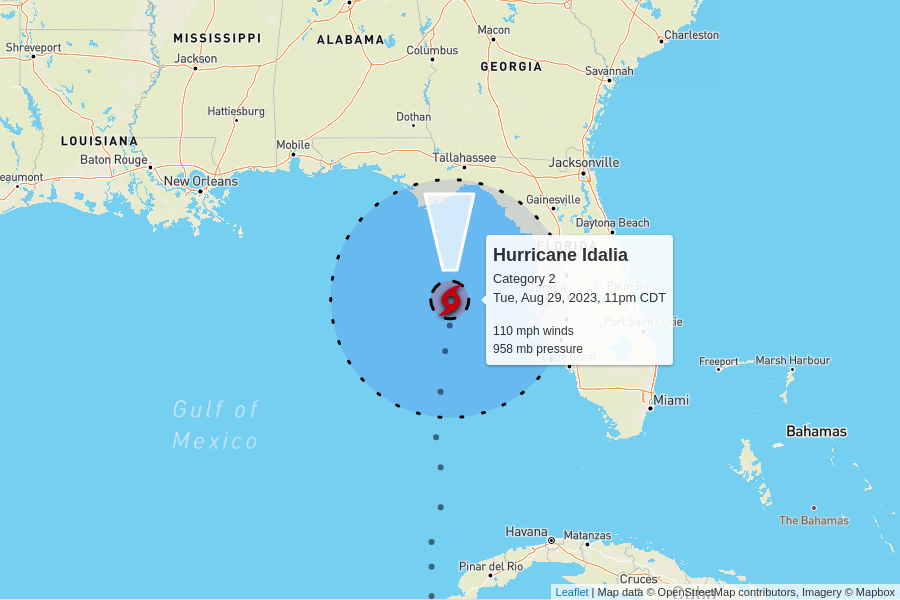
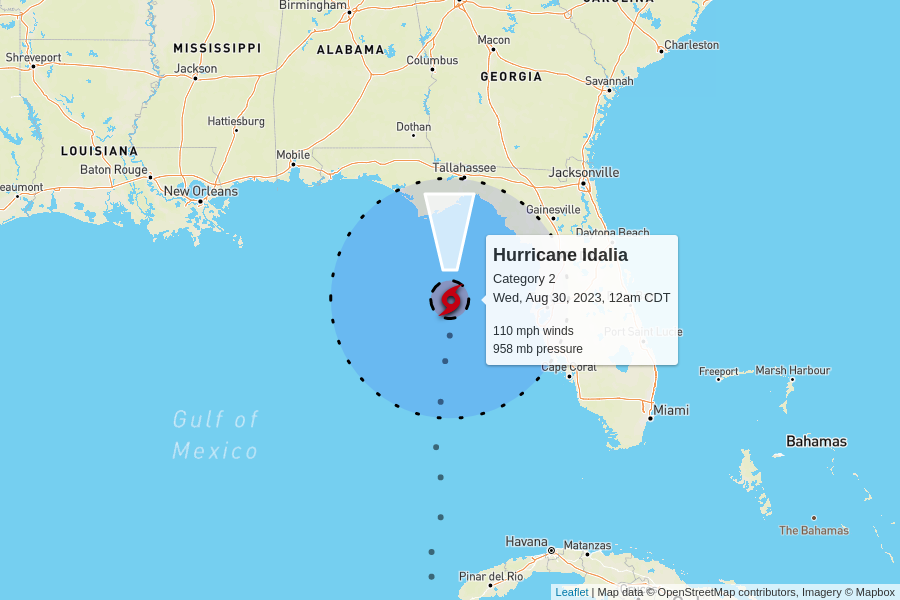
automatic update

diff --git a/docs/index.html b/docs/index.html
@@ -100,7 +100,7 @@
         <td colspan="6" class="storm category-2" >
           <h2>
             Hurricane Idalia - Category 2
-            <p class="updated">last updated <span data-time>2023-08-30T04:00:00.000Z</span></p>
+            <p class="updated">last updated <span data-time>2023-08-30T05:00:00.000Z</span></p>
           </h2>
         </td>
       </tr>
@@ -118,7 +118,7 @@
         <td>110 mph</td>
         <td>958 mb</td>
         <td>
-          17 mph to the north
+          16 mph to the north
           <br/>
           <span style="display: inline-block; font-size: 1.5em; transform: rotate(360deg);">↑</span>
         </td>
